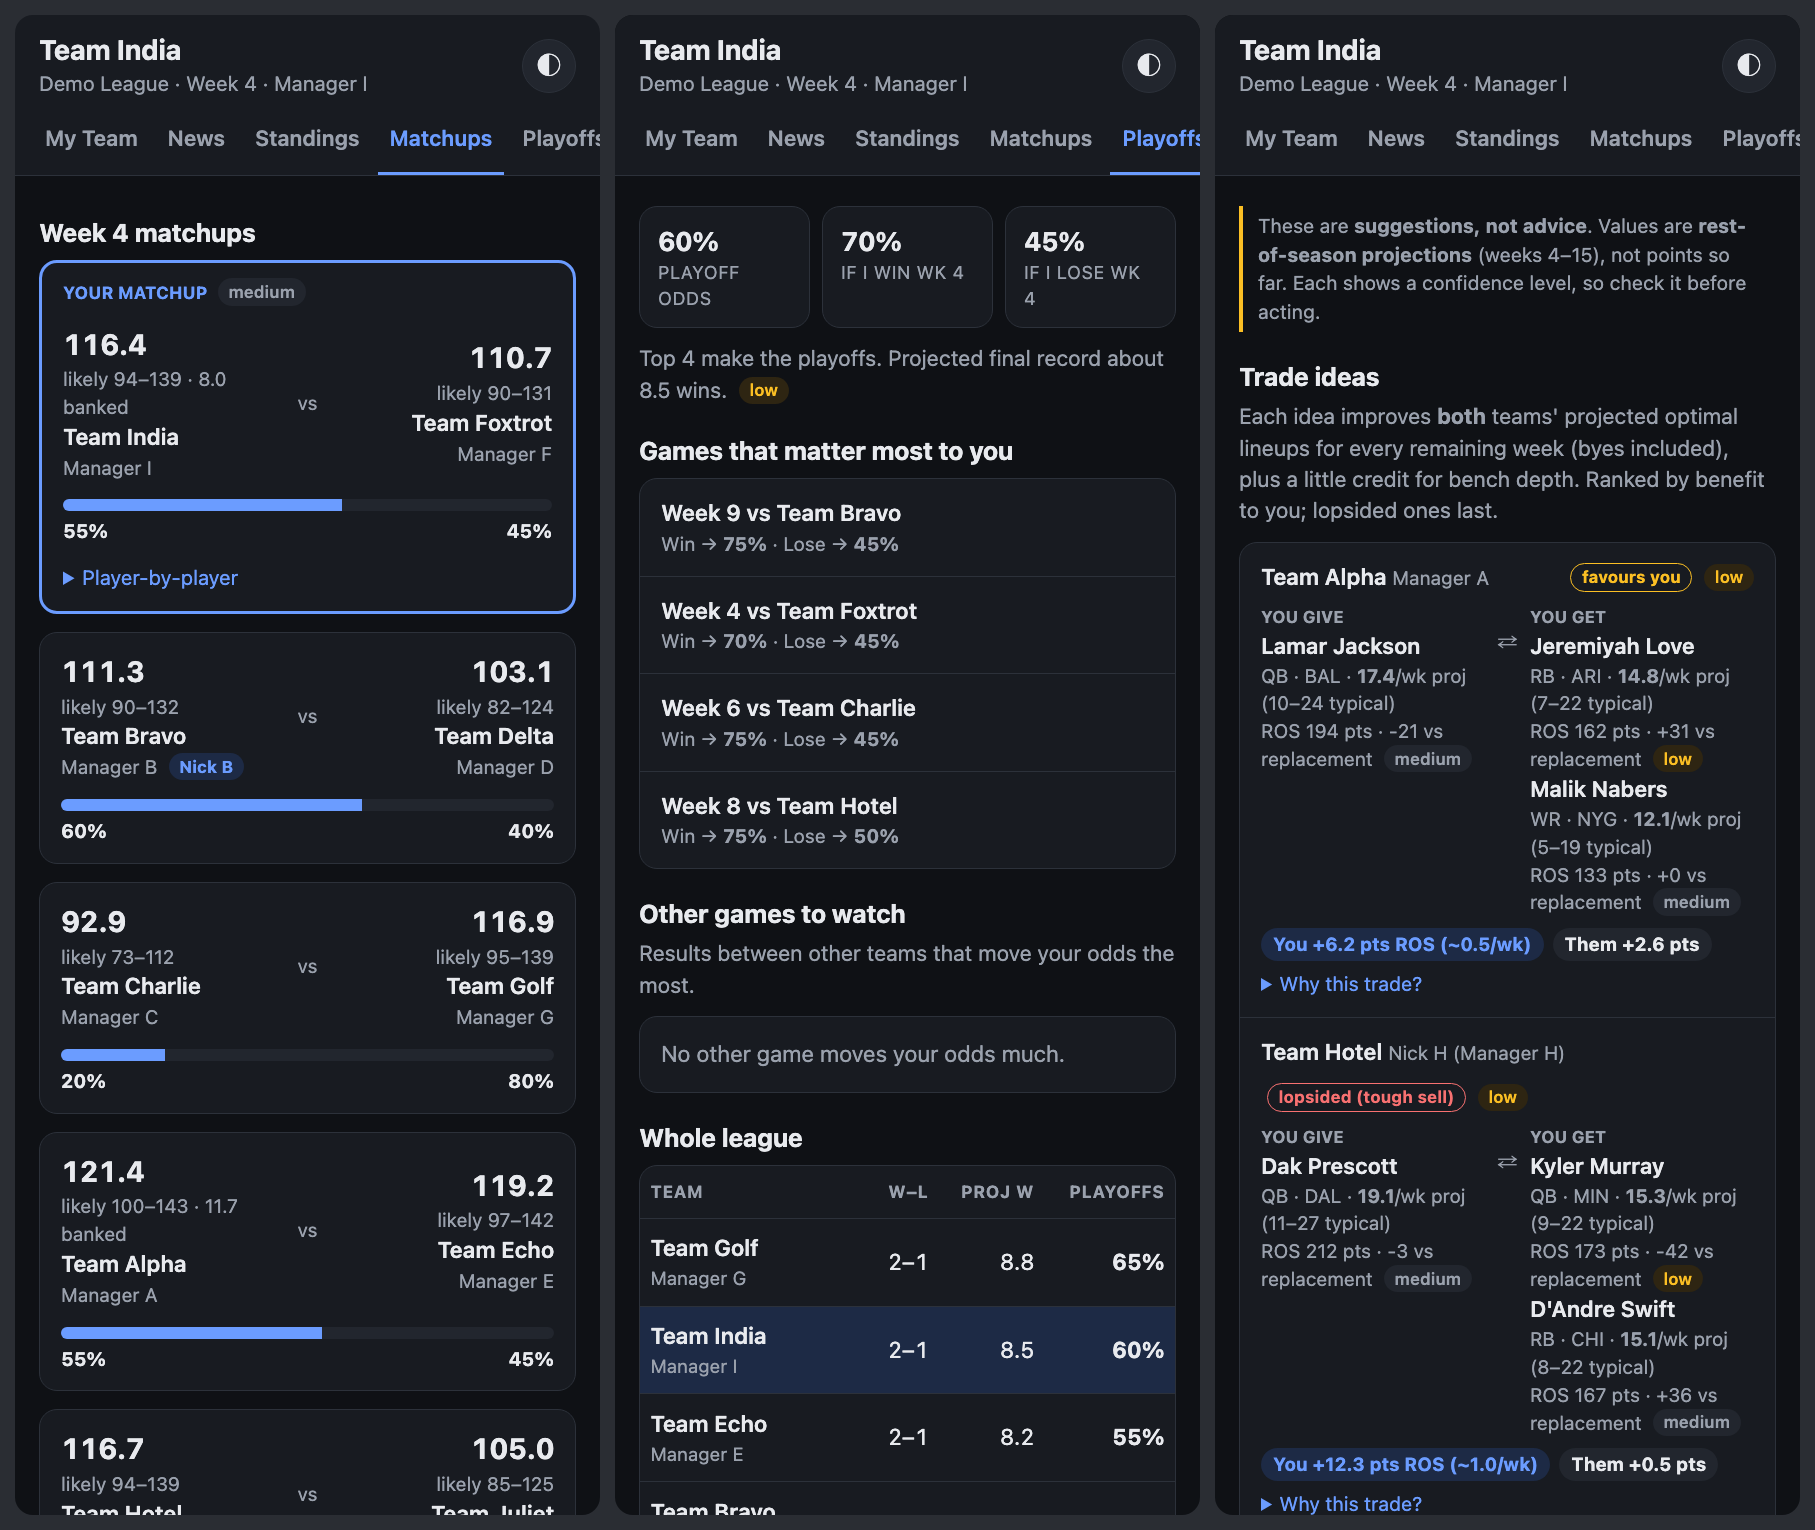
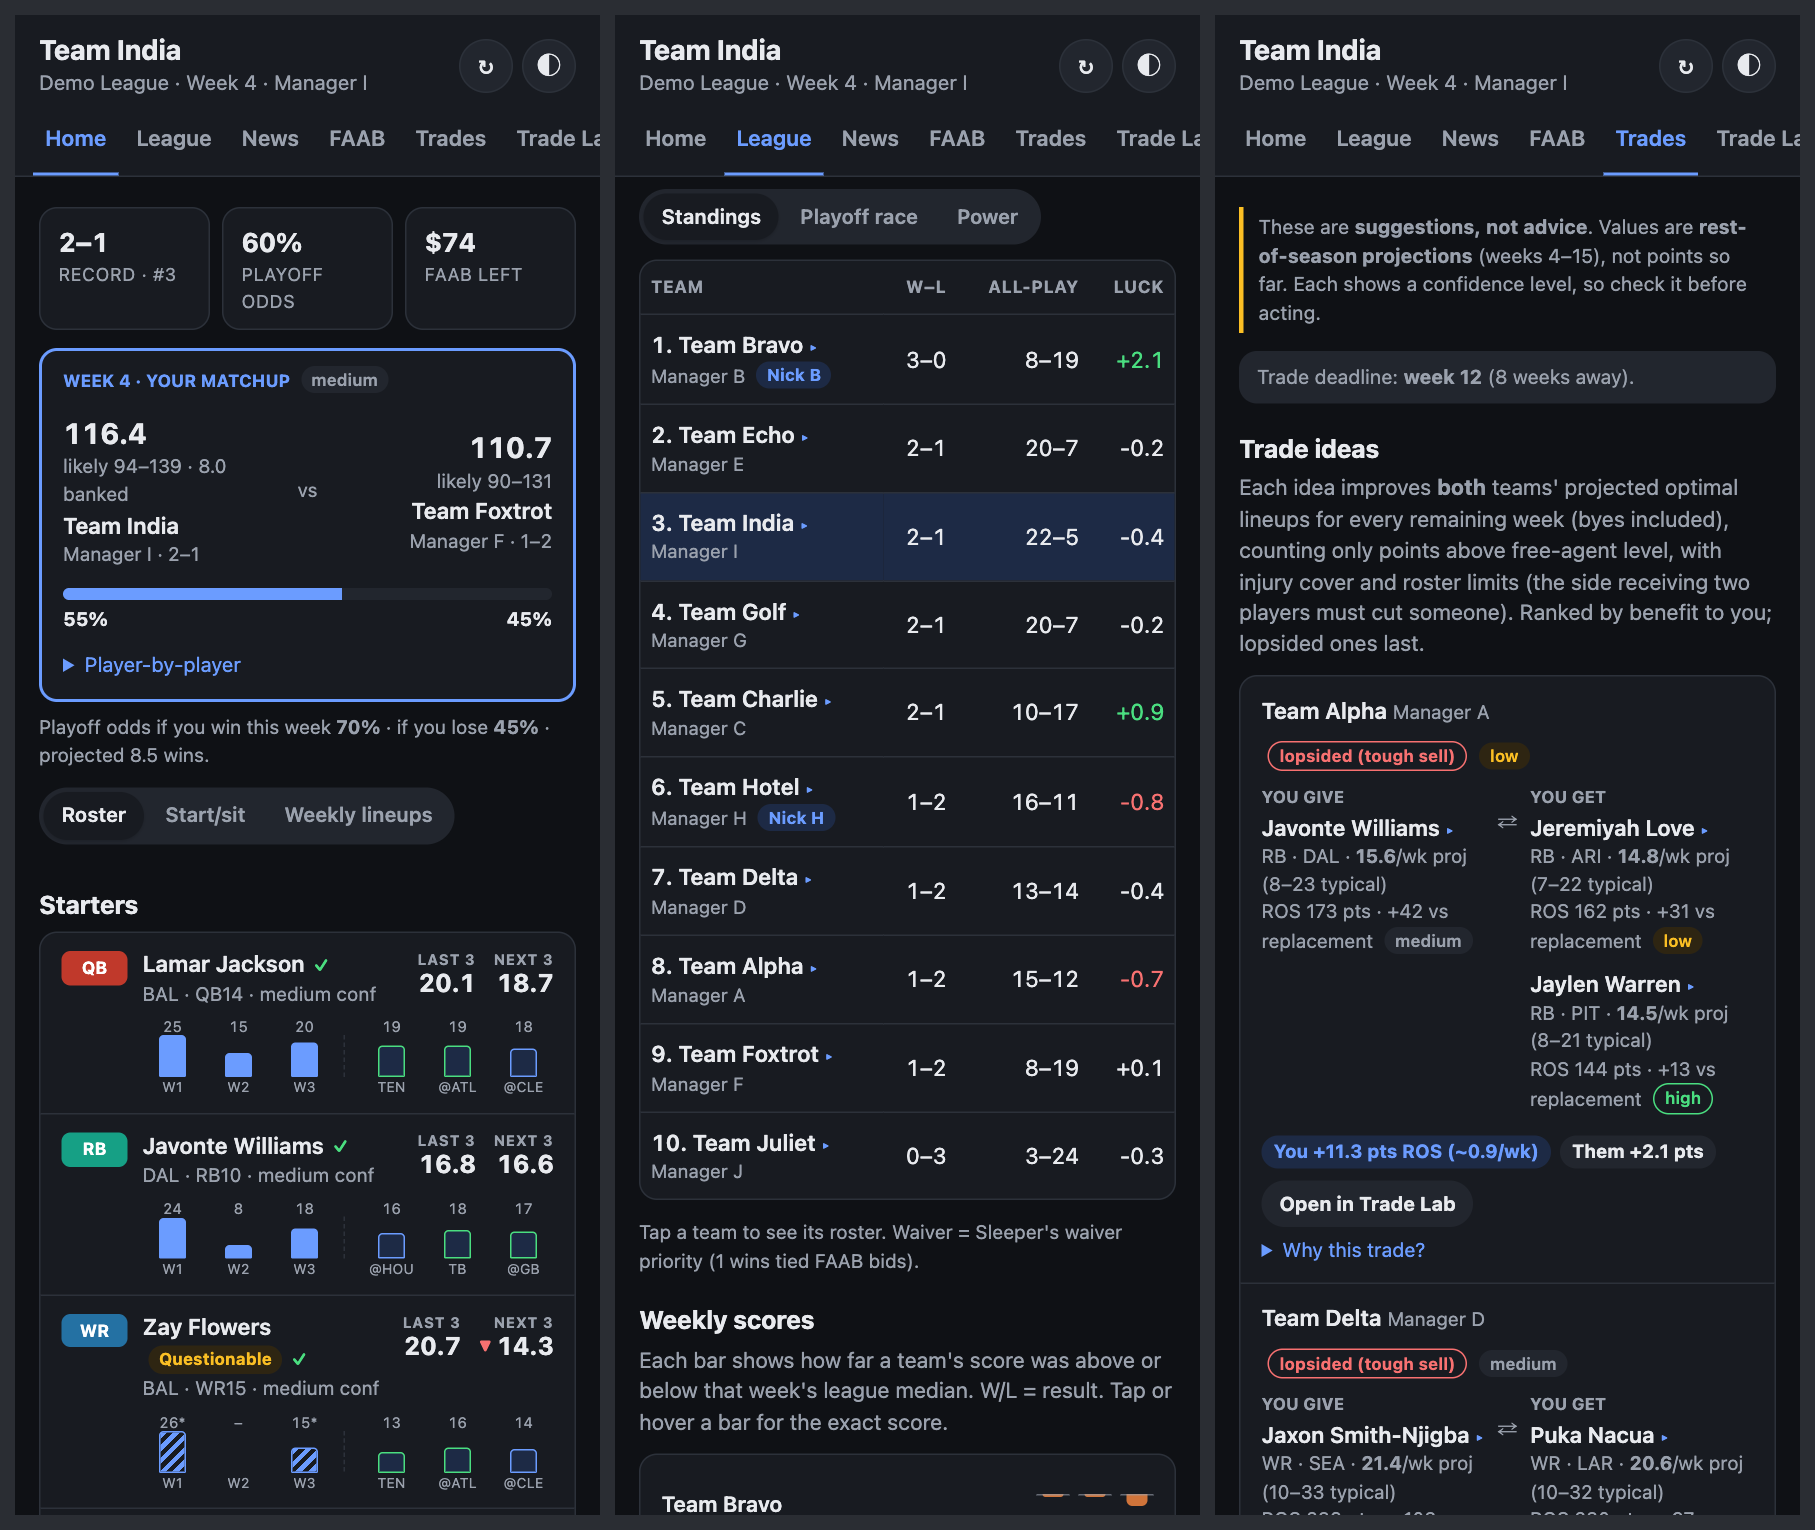
Document Home and League; refresh screenshots

diff --git a/README.md b/README.md
@@ -10,8 +10,8 @@ AI assistant.
 
 Free to run: public APIs only, no keys, no paid services.
 
-![Dark mode: matchups, playoff odds, trade ideas](docs/screenshots/overview-dark.png)
-![Light mode: my team, FAAB bid ideas, news](docs/screenshots/overview-light.png)
+![Dark mode: home, league, trades](docs/screenshots/overview-dark.png)
+![Light mode: playoff race, trade lab, FAAB](docs/screenshots/overview-light.png)
 
 *Screenshots use an anonymised demo league (`python -m nfl_assistant.anonymize`).*
 
@@ -19,16 +19,13 @@ Free to run: public APIs only, no keys, no paid services.
 
 | Tab | What you get |
 |---|---|
-| **My Team** | Each player shows **last 3 weeks vs next 3 weeks** (actual vs projected) with a six-week bar strip: partial games, byes and easy/tough matchups marked. Tap for the game log (snaps, targets, carries), next 3 matchups with ranges, usage vs expected points, and value (position rank, rest of season, vs replacement). Injury status, IR eligibility and ✓ verified points included. |
+| **Home** | Everything about you: this week's matchup with projected scores and win chance, playoff odds with a trend line, if-you-win / if-you-lose odds, alerts, then a toggle for **Roster** (last 3 vs next 3 weeks per player, tap for details), **Start/sit** and **Weekly lineups** (byes included), plus your key games. |
+| **League** | A toggle for **Standings** (with all-play record and luck; tap a team to see its roster), **Playoff race** (odds from 10,000 simulated seasons, trend, other games to watch) and **Power** rankings; a weekly scores chart (each week vs the league median); and all of this week's matchups. |
 | **News** | Only what changed since the last run: injuries, depth chart promotions, team changes and fresh drops, split into *my players*, *other teams' starters* (trade openings) and *free agents worth a look* (with bid ideas and likely rival bidders). |
-| **Standings** | W–L, points for/against and waiver priority, with optional manager nicknames. |
-| **Matchups** | Projected scores and win chances for every game, start/sit calls, and optimal lineups for every remaining week, byes included. |
-| **Playoffs** | Playoff odds for every team from 10,000 simulated seasons, odds if you win or lose this week, and the games that matter most. |
 | **FAAB** | Bid ideas at three levels (bargain / competitive / safe), likely rivals with a bid-to-win range, manager tendencies (style, positions chased, overpaying, budget), a full waiver log with runner-up bids, and market prices. |
 | **Trades** | Rest-of-season player values with range and confidence, value over replacement, mutual-benefit trade ideas with reasoning, buy-low / sell-high, and team strength vs the league median with a toggle: season so far (actual started lineups and lineup efficiency), projected, and a trade-partner snapshot (needs, playoff odds, trades made). Trade deadline countdown. Tap any player for the same details as the roster cards. |
 | **Trade Lab** | Build any trade with any team and get a full breakdown: rest-of-season gain for both sides, playoff odds before → after, week-by-week impact (byes included), lineup changes, positional strength, and the players' details. Runs in the browser, instantly. |
 | **Planner** | Forecast any remaining week: swap bench players in, see your projected score vs the best possible and your win chance, and plan waiver pickups (with drops) to see the week-by-week, rest-of-season and playoff-odds impact. Saved on your device. |
-| **Rosters** | Every manager's roster with the same player cards. |
 | **Brief** | `claude_brief.md`: a compact verified summary with a one-tap Copy button. |
 
 ## Use it with your league

diff --git a/AGENTS.md b/AGENTS.md
@@ -65,11 +65,12 @@ nfl_assistant/
   tendencies.py           manager FAAB habits + likely rivals / bid-to-win
   cards.py                player cards: last 3 (Sleeper actual) vs next 3 (projected), log, usage, value
   lab.py                  compact data for the in-browser Trade Lab / Planner (site/lab.js)
+  league.py               weekly scores vs median, all-play + luck, power rankings, odds history
   brief.py                Markdown brief for pasting into an AI assistant
   anonymize.py            shareable copy of the site with league names replaced
   output.py               site data + snapshot writers
 site/                     static site (index.html, styles.css, app.js, data/ git-ignored)
-data/                     git-ignored: snapshots/, news_log.json, cache/
+data/                     git-ignored: snapshots/, news_log.json, odds_history.json, cache/
 tests/                    pytest + tests/fixtures/ (neutral sample data)
 .github/workflows/update.yml   tests always; pipeline + Pages only if LEAGUE_ID var set
 ```
@@ -157,6 +158,18 @@ On the Trades tab, `playerExpand()` renders the same details: trade-idea and buy
 (`.tp` inside `.has-detail`) open a full-width `.trade-detail` panel under the card;
 sell-high / buy-low rows are `<details>`; value-table rows (`.tp-row`) insert a
 `tr.detail-row`. Handled by one delegated listener (`wireTradeDetails`).
+
+## Home and League tabs
+
+Tabs: Home · League · News · FAAB · Trades · Trade Lab · Planner · Brief (old #team /
+#matchups map to Home; #standings / #playoffs / #rosters to League). `league.py` →
+`site/data/league.*`: weekly scores + per-week league median (Sleeper matchup points),
+all-play record, luck = actual wins − all-play expected wins, power rankings
+(z-scores: results so far weight 0.9·n/(n+5), projection 0.9 − that, efficiency 0.1), and
+`data/odds_history.json` (one entry per run day, last 60) for the odds trend sparkline.
+Toggles remember their view in localStorage (`homeView`, `leagueView`). The weekly chart
+draws bars up/down from the median with two validated diverging hues (`--div-pos` /
+`--div-neg`, checked with the dataviz validator in light and dark).
 
 ## Trades tab strength views
 
